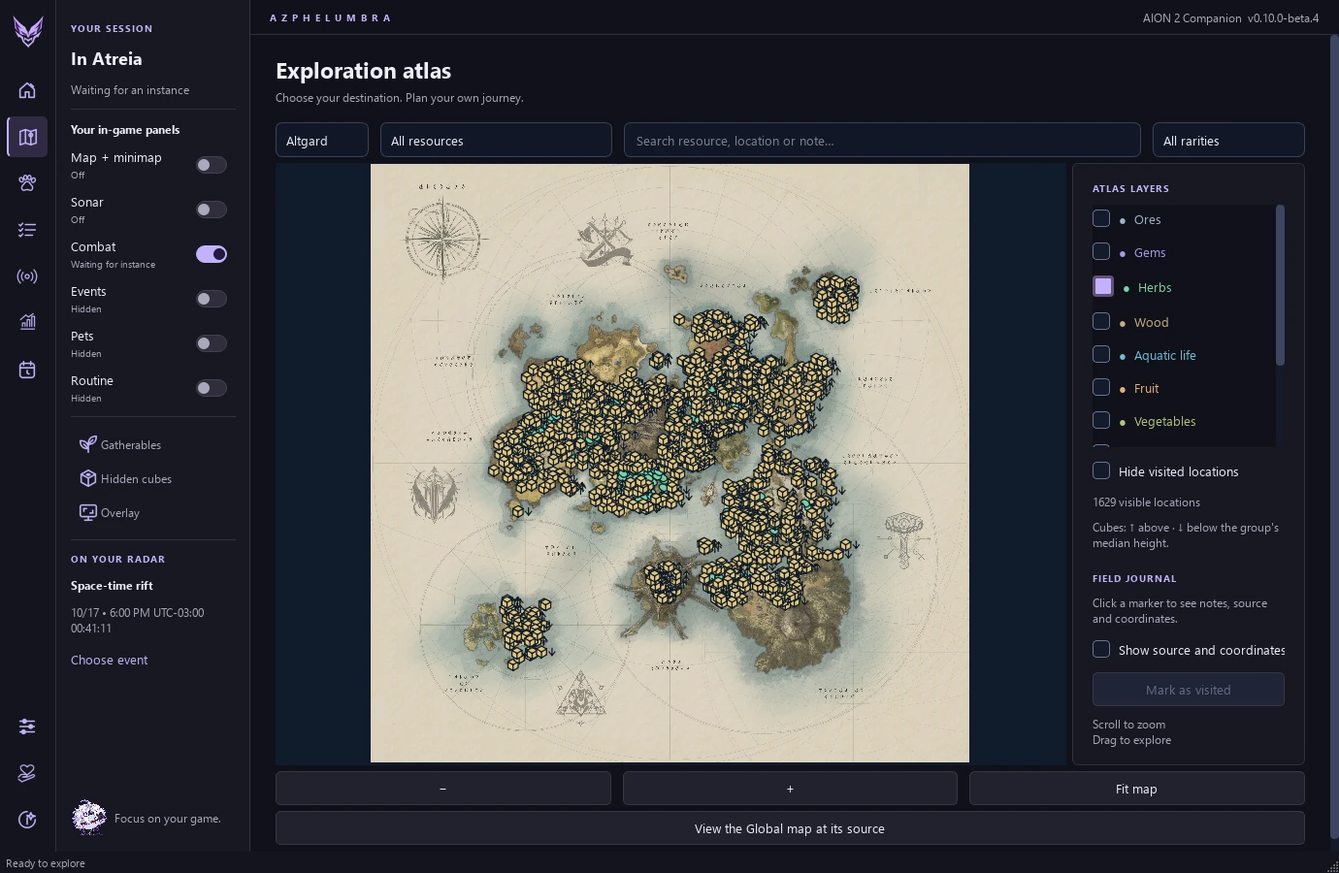
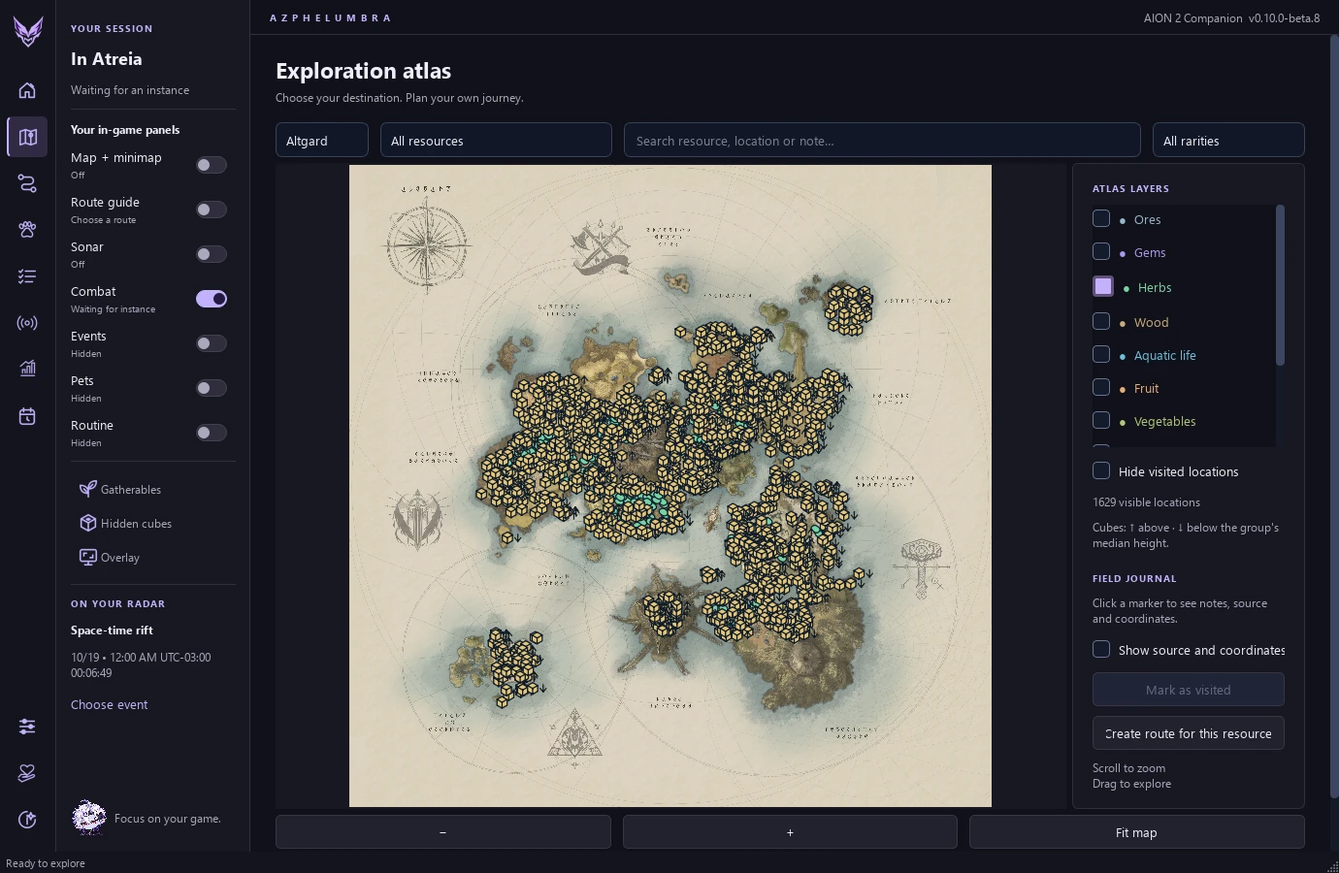
Publish beta.8 downloads and farming route guide

diff --git a/website/index.html b/website/index.html
@@ -30,10 +30,10 @@
   <main id="main">
     <section class="hero container">
       <div class="hero-copy">
-        <div class="eyebrow"><span class="live-dot"></span>AION 2 COMPANION <span class="version-pill">v0.10.0-beta.4</span></div>
+        <div class="eyebrow"><span class="live-dot"></span>AION 2 COMPANION <span class="version-pill">v0.10.0-beta.8</span></div>
         <h1 data-i18n="hero.title">Sua próxima<br>descoberta<br><em>começa aqui.</em></h1>
-        <p class="hero-description" data-i18n="hero.description">Mapas, coletas, cubos, pets, eventos e combate em um só lugar. Aether cuida do mapa. Você vive a aventura.</p>
-        <div class="hero-buttons"><a class="button primary" href="https://github.com/jpgalvao-architect/strigoi-aether-map/releases/download/v0.10.0-beta.4/StrigoiAetherMap-Setup-0.10.0-beta.4.exe"><svg viewBox="0 0 24 24" fill="none" stroke="currentColor" stroke-width="1.8" aria-hidden="true"><path d="M12 3v12m-5-5 5 5 5-5M4 16v5h16v-5"/></svg><span data-i18n="download.installer">Baixar instalador</span></a><a class="button secondary" href="#explore"><span data-i18n="hero.tour">Conhecer o app</span><span aria-hidden="true">↗</span></a><a class="button secondary" href="guide.html" data-i18n="start.guide">Abrir guia interativo</a></div>
+        <p class="hero-description" data-i18n="hero.description">Mapas, rotas de farm, cubos, pets, eventos e combate em um só lugar. Aether cuida do mapa. Você vive a aventura.</p>
+        <div class="hero-buttons"><a class="button primary" href="https://github.com/jpgalvao-architect/strigoi-aether-map/releases/download/v0.10.0-beta.8/StrigoiAetherMap-Setup-0.10.0-beta.8.exe"><svg viewBox="0 0 24 24" fill="none" stroke="currentColor" stroke-width="1.8" aria-hidden="true"><path d="M12 3v12m-5-5 5 5 5-5M4 16v5h16v-5"/></svg><span data-i18n="download.installer">Baixar instalador</span></a><a class="button secondary" href="#explore"><span data-i18n="hero.tour">Conhecer o app</span><span aria-hidden="true">↗</span></a><a class="button secondary" href="guide.html" data-i18n="start.guide">Abrir guia interativo</a></div>
         <p class="download-note"><svg viewBox="0 0 24 24" aria-hidden="true"><path fill="currentColor" d="m2 4 9-1v9H2zm11-1 9-1v10h-9zM2 14h9v9l-9-1zm11 0h9v10l-9-1z"/></svg><span data-i18n="hero.platform">Windows 10/11 · 64 bits · PT-BR / EN-US</span></p>
         <div class="hero-bottom"><span data-i18n="hero.free">Gratuito, com código aberto</span><span class="divider-dot">·</span><a href="https://github.com/jpgalvao-architect/strigoi-aether-map/blob/main/LICENSE" data-i18n="hero.license">Código GPLv3</a></div>
       </div>
@@ -49,13 +49,13 @@
     <div class="feature-ribbon"><div class="container ribbon-inner"><span><img src="assets/icons/atlas.svg" alt="" width="22" height="22"><span data-i18n="ribbon.maps">Mapas reais</span></span><span><img src="assets/icons/overlay.svg" alt="" width="22" height="22"><span data-i18n="ribbon.overlay">Overlay externo</span></span><span><img src="assets/icons/sonar.svg" alt="" width="22" height="22"><span data-i18n="ribbon.sonar">Acessibilidade auditiva</span></span><span><img src="assets/icons/moon.svg" alt="" width="22" height="22"><span data-i18n="ribbon.local">Seus registros, no seu PC</span></span></div></div>
     <section class="container explore-section" id="explore">
       <div class="section-heading"><div><p class="eyebrow" data-i18n="explore.eyebrow">MENOS ALT-TAB. MAIS EXPLORAÇÃO.</p><h2 data-i18n="explore.title">Um mapa que acompanha<br>a sua jornada.</h2></div><p data-i18n="explore.description">Escolha suas camadas, registre as visitas e deixe o Azphelumbra acompanhar o que importa para você.</p></div>
-      <div class="showcase-tabs" role="tablist" aria-label="Conheça as telas" data-i18n-aria="showcase.label"><button type="button" role="tab" id="tab-atlas" aria-selected="true" aria-controls="showcase-panel" tabindex="0" data-tab="atlas"><img src="assets/icons/atlas.svg" alt=""><span data-i18n="tab.atlas">Atlas</span></button><button type="button" role="tab" id="tab-overlay" aria-selected="false" aria-controls="showcase-panel" tabindex="-1" data-tab="overlay"><img src="assets/icons/overlay.svg" alt=""><span data-i18n="tab.overlay">Overlay</span></button><button type="button" role="tab" id="tab-events" aria-selected="false" aria-controls="showcase-panel" tabindex="-1" data-tab="events"><img src="assets/icons/events.svg" alt=""><span data-i18n="tab.events">Eventos</span></button><button type="button" role="tab" id="tab-sonar" aria-selected="false" aria-controls="showcase-panel" tabindex="-1" data-tab="sonar"><img src="assets/icons/sonar.svg" alt=""><span>Sonar</span></button><button type="button" role="tab" id="tab-combat" aria-selected="false" aria-controls="showcase-panel" tabindex="-1" data-tab="combat"><img src="assets/icons/combat.svg" alt=""><span data-i18n="tab.combat">Combate</span></button><button type="button" role="tab" id="tab-pets" aria-selected="false" aria-controls="showcase-panel" tabindex="-1" data-tab="pets"><img src="assets/icons/pets.svg" alt=""><span data-i18n="tab.pets">Pets</span></button><button type="button" role="tab" id="tab-routine" aria-selected="false" aria-controls="showcase-panel" tabindex="-1" data-tab="routine"><img src="assets/icons/routine.svg" alt=""><span data-i18n="tab.routine">Rotina</span></button></div>
-      <div class="showcase" id="showcase-panel" role="tabpanel" aria-labelledby="tab-atlas" tabindex="0"><div class="window-chrome"><span class="window-dots"><i></i><i></i><i></i></span><span>AZPHELUMBRA <span class="chrome-version">/ v0.10.0-beta.4</span></span><span class="window-indicator" data-i18n="showcase.actual">TELA REAL DO APP</span></div><img id="app-screenshot" src="assets/app-atlas-pt_BR.webp" alt="Atlas do aplicativo exibindo o mapa real de Altgard" data-i18n-alt="screen.atlas" width="2070" height="1350" loading="lazy"><div class="showcase-caption"><span id="showcase-number">01 / 07</span><div><h3 id="showcase-title" data-i18n="showcase.atlas.title">Seu atlas. Suas camadas.</h3><p id="showcase-description" data-i18n="showcase.atlas.description">Veja ervas e cubos juntos, filtre os recursos e marque os lugares que você já visitou.</p></div><img id="showcase-icon" src="assets/icons/atlas.svg" width="40" height="40" alt=""></div></div>
+      <div class="showcase-tabs" role="tablist" aria-label="Conheça as telas" data-i18n-aria="showcase.label"><button type="button" role="tab" id="tab-atlas" aria-selected="true" aria-controls="showcase-panel" tabindex="0" data-tab="atlas"><img src="assets/icons/atlas.svg" alt=""><span data-i18n="tab.atlas">Atlas</span></button><button type="button" role="tab" id="tab-routes" aria-selected="false" aria-controls="showcase-panel" tabindex="-1" data-tab="routes"><img src="assets/icons/routes.svg" alt=""><span data-i18n="tab.routes">Rotas</span></button><button type="button" role="tab" id="tab-overlay" aria-selected="false" aria-controls="showcase-panel" tabindex="-1" data-tab="overlay"><img src="assets/icons/overlay.svg" alt=""><span data-i18n="tab.overlay">Overlay</span></button><button type="button" role="tab" id="tab-events" aria-selected="false" aria-controls="showcase-panel" tabindex="-1" data-tab="events"><img src="assets/icons/events.svg" alt=""><span data-i18n="tab.events">Eventos</span></button><button type="button" role="tab" id="tab-sonar" aria-selected="false" aria-controls="showcase-panel" tabindex="-1" data-tab="sonar"><img src="assets/icons/sonar.svg" alt=""><span>Sonar</span></button><button type="button" role="tab" id="tab-combat" aria-selected="false" aria-controls="showcase-panel" tabindex="-1" data-tab="combat"><img src="assets/icons/combat.svg" alt=""><span data-i18n="tab.combat">Combate</span></button><button type="button" role="tab" id="tab-pets" aria-selected="false" aria-controls="showcase-panel" tabindex="-1" data-tab="pets"><img src="assets/icons/pets.svg" alt=""><span data-i18n="tab.pets">Pets</span></button><button type="button" role="tab" id="tab-routine" aria-selected="false" aria-controls="showcase-panel" tabindex="-1" data-tab="routine"><img src="assets/icons/routine.svg" alt=""><span data-i18n="tab.routine">Rotina</span></button></div>
+      <div class="showcase" id="showcase-panel" role="tabpanel" aria-labelledby="tab-atlas" tabindex="0"><div class="window-chrome"><span class="window-dots"><i></i><i></i><i></i></span><span>AZPHELUMBRA <span class="chrome-version">/ v0.10.0-beta.8</span></span><span class="window-indicator" data-i18n="showcase.actual">TELA REAL DO APP</span></div><img id="app-screenshot" src="assets/app-atlas-pt_BR.webp" alt="Atlas do aplicativo exibindo o mapa real de Altgard" data-i18n-alt="screen.atlas" width="2070" height="1350" loading="lazy"><div class="showcase-caption"><span id="showcase-number">01 / 08</span><div><h3 id="showcase-title" data-i18n="showcase.atlas.title">Seu atlas. Suas camadas.</h3><p id="showcase-description" data-i18n="showcase.atlas.description">Veja ervas e cubos juntos, filtre os recursos e marque os lugares que você já visitou.</p></div><img id="showcase-icon" src="assets/icons/atlas.svg" width="40" height="40" alt=""></div></div>
       <p class="source-note" data-i18n="explore.source">Imagens reais dos mapas e posições comunitárias com origem documentada. Os marcadores indicam locais possíveis, não spawns garantidos.</p>
     </section>
     <section class="sonar-section" id="sonar"><div class="container sonar-grid"><div class="sonar-visual" aria-hidden="true"><div class="sonar-ring ring-1"></div><div class="sonar-ring ring-2"></div><div class="sonar-ring ring-3"></div><img class="sonar-cube" src="assets/icons/cube.svg" alt="" width="88" height="88"><img class="sonar-alert" src="assets/sonar-alert-pt_BR.webp" data-alert-image alt="" width="350" height="181" loading="lazy"><span class="visual-caption" data-i18n="sonar.visual">UMA PISTA SONORA. UM AVISO VISUAL.</span></div><div class="sonar-copy"><p class="eyebrow" data-i18n="sonar.eyebrow">ACESSIBILIDADE AUDITIVA</p><h2 data-i18n="sonar.title">Uma pista que<br>você pode <em>ver.</em></h2><p data-i18n="sonar.description">O Sonar procura indícios do som do cubo e mostra um aviso com barra de intensidade e histórico recente. O volume do jogo influencia a leitura.</p><ul class="check-list"><li data-i18n="sonar.point1">Selecione o aplicativo do jogo e ative quando quiser.</li><li data-i18n="sonar.point2">Sem microfone, gravação ou envio do áudio.</li><li data-i18n="sonar.point3">O Sonar começa desligado a cada abertura.</li></ul><p class="accessibility-note" data-i18n="sonar.note">Desenvolvido como recurso de acessibilidade para pessoas surdas ou com deficiência auditiva. O aviso é uma pista: não confirma o cubo nem revela sua posição exata.</p></div></div></section>
     <section class="container start-section"><p class="eyebrow" data-i18n="start.eyebrow">DO DOWNLOAD À AVENTURA</p><h2 data-i18n="start.title">Pronto em poucos passos.</h2><div class="steps"><article><span class="step-number">01</span><h3 data-i18n="start.one.title">Instale e escolha o idioma</h3><p data-i18n="start.one.text">Baixe o instalador, leia os termos e escolha português ou inglês. Não precisa instalar Python.</p></article><article><span class="step-number">02</span><h3 data-i18n="start.two.title">Monte o seu mapa</h3><p data-i18n="start.two.text">Escolha as camadas do Atlas. A mesma seleção aparece no minimapa e no mapa grande.</p></article><article><span class="step-number">03</span><h3 data-i18n="start.three.title">Entre na aventura</h3><p data-i18n="start.three.text">Ative o overlay, selecione o terreno do minimapa uma vez e escolha o evento que quer acompanhar.</p></article></div><a class="button secondary guide-entry" href="guide.html" data-i18n="start.guide">Abrir guia interativo</a></section>
-    <section class="container download-section" id="download"><div class="download-box"><div><p class="eyebrow" data-i18n="download.eyebrow">SEU PEQUENO GUARDIÃO ESTÁ PRONTO</p><h2 data-i18n="download.title">Nos vemos em Atréia.</h2><p data-i18n="download.description">Escolha como quer usar o Azphelumbra. As duas versões têm os mesmos recursos e incluem o código-fonte.</p></div><div class="download-options"><a class="download-option recommended" href="https://github.com/jpgalvao-architect/strigoi-aether-map/releases/download/v0.10.0-beta.4/StrigoiAetherMap-Setup-0.10.0-beta.4.exe"><div class="option-heading"><span data-i18n="download.installer">Baixar instalador</span><span class="recommend-tag" data-i18n="download.recommended">Recomendado</span></div><p data-i18n="download.installer.detail">Atalhos, idioma inicial, desinstalação e assistente oficial do Npcap para Combate e Pets.</p><span class="option-meta">.EXE · 220.5 MB <span aria-hidden="true">↓</span></span></a><a class="download-option" href="https://github.com/jpgalvao-architect/strigoi-aether-map/releases/download/v0.10.0-beta.4/Azphelumbra-0.10.0-beta.4-windows-x64.zip"><div class="option-heading"><span data-i18n="download.portable">Baixar portátil</span><span aria-hidden="true">↗</span></div><p data-i18n="download.portable.detail">Extraia a pasta inteira e abra o app.</p><span class="option-meta">.ZIP · 259.3 MB <span aria-hidden="true">↓</span></span></a></div><p class="source-note" data-i18n="download.beta">Novo na beta.4: contador de pets com o personagem já logado, leitura de Insight e almas pela tela e ocultação dos overlays em mais menus. A Rotina reúne seus personagens e os saldos de Odyle, com Pulso compacto ou Faixa. Preferências preservadas; Combate e PvP continuam experimentais.</p><div class="download-links"><span>v0.10.0-beta.4 · Windows x64</span><a href="terms.html" data-i18n="download.terms">Ler os termos de uso</a><a href="https://github.com/jpgalvao-architect/strigoi-aether-map/releases/download/v0.10.0-beta.4/SHA256SUMS.txt" data-i18n="download.checksums">Verificar arquivos · SHA-256</a></div></div></section>
+    <section class="container download-section" id="download"><div class="download-box"><div><p class="eyebrow" data-i18n="download.eyebrow">SEU PEQUENO GUARDIÃO ESTÁ PRONTO</p><h2 data-i18n="download.title">Nos vemos em Atréia.</h2><p data-i18n="download.description">Escolha como quer usar o Azphelumbra. As duas versões têm os mesmos recursos e incluem o código-fonte.</p></div><div class="download-options"><a class="download-option recommended" href="https://github.com/jpgalvao-architect/strigoi-aether-map/releases/download/v0.10.0-beta.8/StrigoiAetherMap-Setup-0.10.0-beta.8.exe"><div class="option-heading"><span data-i18n="download.installer">Baixar instalador</span><span class="recommend-tag" data-i18n="download.recommended">Recomendado</span></div><p data-i18n="download.installer.detail">Atalhos, idioma inicial, desinstalação e assistente oficial do Npcap para Combate e Pets.</p><span class="option-meta">.EXE · 220.6 MB <span aria-hidden="true">↓</span></span></a><a class="download-option" href="https://github.com/jpgalvao-architect/strigoi-aether-map/releases/download/v0.10.0-beta.8/Azphelumbra-0.10.0-beta.8-windows-x64.zip"><div class="option-heading"><span data-i18n="download.portable">Baixar portátil</span><span aria-hidden="true">↗</span></div><p data-i18n="download.portable.detail">Extraia a pasta inteira e abra o app.</p><span class="option-meta">.ZIP · 259.4 MB <span aria-hidden="true">↓</span></span></a></div><p class="source-note" data-i18n="download.beta">Novo na beta.8: crie rotas de farm e acompanhe as paradas pelo centro do minimapa, sem calibrar a seta. A revalidação acompanha o terreno em movimento. A agenda inclui Battlefield, previsão do Gartua pelo contador e referências Global dos bosses do Abyss. Combate e PvP continuam experimentais.</p><div class="download-links"><span>v0.10.0-beta.8 · Windows x64</span><a href="terms.html" data-i18n="download.terms">Ler os termos de uso</a><a href="https://github.com/jpgalvao-architect/strigoi-aether-map/releases/download/v0.10.0-beta.8/SHA256SUMS.txt" data-i18n="download.checksums">Verificar arquivos · SHA-256</a></div></div></section>
     <section class="container faq-section"><div><p class="eyebrow" data-i18n="faq.eyebrow">SEM MISTÉRIO</p><h2 data-i18n="faq.title">Antes de partir.</h2></div><div class="faq-list"><details><summary data-i18n="faq.one.q">O aplicativo modifica o jogo?</summary><p data-i18n="faq.one.a">Não. Os marcadores e avisos são janelas externas de overlay. O app analisa a imagem da tela e recebe o áudio pelo Windows; não injeta código nas DLLs, não altera arquivos nem lê a memória do AION 2. O Combate lê passivamente a conexão do jogo usando Npcap. Os termos descrevem as condições de uso.</p></details><details><summary data-i18n="faq.two.q">Funciona no minimapa e no mapa grande?</summary><p data-i18n="faq.two.a">Sim, com minimapa retangular e norte fixo. Selecione só o terreno do minimapa, sem a barra de título. Ao abrir o mapa grande com M, o overlay muda automaticamente; ao fechar, volta ao minimapa.</p></details><details><summary data-i18n="faq.three.q">A agenda é para a América do Sul?</summary><p data-i18n="faq.three.a">Há perfis de agenda SA, com fontes documentadas e horários no fuso que você escolher. Os mapas e locais possíveis vêm de bases comunitárias compartilhadas; as posições não foram verificadas individualmente em SA. Você pode consultar as fontes no aplicativo.</p></details><details><summary data-i18n="faq.four.q">Posso usar sem abrir o jogo?</summary><p data-i18n="faq.four.a">O Atlas, as visitas e a agenda local funcionam offline. Para usar overlay e Sonar, abra o jogo e ative esses recursos. Suas preferências e registros ficam no seu computador.</p></details><details><summary data-i18n="faq.five.q">Como troco o idioma depois de instalar?</summary><p data-i18n="faq.five.a">Abra Configurações → Idioma do aplicativo. A troca entre português do Brasil e inglês dos EUA é imediata. Ela não altera seus filtros, visitas, região ou fuso horário.</p></details><details><summary data-i18n="faq.six.q">Onde estão as licenças e o código?</summary><p data-i18n="faq.six.a">O código próprio usa GPLv3 e está no GitHub e nos downloads. Mapas, dados comunitários e componentes de terceiros mantêm seus direitos e licenças, incluindo CC BY-NC 4.0 para mapas e dados comunitários.</p><a href="https://github.com/jpgalvao-architect/strigoi-aether-map/blob/main/THIRD_PARTY.md" data-i18n="faq.licenses">Consultar licenças e créditos →</a></details></div></section>
     <section class="container support-section" id="support"><div class="support-copy"><img src="assets/icons/donate.svg" width="38" height="38" alt=""><h2 data-i18n="support.title">Curtiu a companhia?</h2><p data-i18n="support.description">Se meu trabalho te ajudou e você quiser retribuir, pode deixar uma força por aqui. Sem pressão: usar o app, mandar feedback e compartilhar com a galera já ajuda demais.</p><a class="button secondary" href="https://link.mercadopago.com.br/thothworlds" target="_blank" rel="noopener noreferrer"><span data-i18n="support.creator">Apoiar o criador</span><span aria-hidden="true">↗</span></a><small data-i18n="support.recipient">Apoio pessoal ao criador · Mercado Pago</small></div><div class="community-support"><p class="eyebrow" data-i18n="support.community.eyebrow">APOIE TAMBÉM A COMUNIDADE SURDA</p><p data-i18n="support.community.description">Você também pode contribuir diretamente com instituições brasileiras que apoiam pessoas surdas.</p><a href="https://assjp.org.br/junte-nos/seja-apoiador/" target="_blank" rel="noopener noreferrer">ASSJP<span>São José dos Pinhais</span><span aria-hidden="true">↗</span></a><a href="https://www.ascontagem.org.br/" target="_blank" rel="noopener noreferrer">ASC<span>Contagem</span><span aria-hidden="true">↗</span></a><small data-i18n="support.community.note">Doações feitas nos canais oficiais das instituições. Destinatários diferentes do apoio ao criador.</small></div></section>
   </main>

diff --git a/website/guide-content.js b/website/guide-content.js
@@ -376,6 +376,123 @@ window.StrigoiGuide = {
       ]
     },
     {
+      "id": "routes",
+      "icon": "routes",
+      "title": {
+        "pt_BR": "Rotas de farm",
+        "en_US": "Farming routes"
+      },
+      "description": {
+        "pt_BR": "Escolha o que procurar e acompanhe suas próximas paradas.",
+        "en_US": "Choose what to find and follow your next stops."
+      },
+      "image": "routes",
+      "steps": [
+        {
+          "title": {
+            "pt_BR": "Escolha os alvos",
+            "en_US": "Choose your targets"
+          },
+          "where": {
+            "pt_BR": "Rotas → mapa e alvos",
+            "en_US": "Routes → map and targets"
+          },
+          "body": {
+            "pt_BR": "Abra Rotas ou use Criar rota no Atlas, nas Coletas ou em um pet. Escolha o mapa e os alvos, como Azpha, cubos ou almas de pets. Ajuste as paradas e escolha Circuito ou Só ida.",
+            "en_US": "Open Routes or choose Create route in the Atlas, Gatherables or a pet. Select the map and targets, such as Azpha, cubes or pet souls. Set the stops and choose Loop or One way."
+          },
+          "tip": {
+            "pt_BR": "Os locais vêm do Atlas; uma referência não garante que o recurso esteja disponível agora.",
+            "en_US": "Locations come from the Atlas; a reference does not guarantee current availability."
+          }
+        },
+        {
+          "title": {
+            "pt_BR": "Confira o percurso",
+            "en_US": "Check the journey"
+          },
+          "where": {
+            "pt_BR": "Rotas → prévia do mapa",
+            "en_US": "Routes → map preview"
+          },
+          "body": {
+            "pt_BR": "Use Marcar início para escolher a primeira parada. Confira a ordem e use Ajustar trajeto para inserir passagens. Linhas tracejadas são sugestões geométricas; confira muros, penhascos e desníveis no jogo.",
+            "en_US": "Use Choose starting stop to choose the first stop. Review the order and use Edit passages to add passages. Dashed lines are geometric suggestions; check walls, cliffs and elevation changes in game."
+          },
+          "tip": {
+            "pt_BR": "O módulo não conhece uma rede completa de estradas transitáveis e não move o personagem.",
+            "en_US": "The module has no complete walkable road network and never moves your character."
+          }
+        },
+        {
+          "title": {
+            "pt_BR": "Inicie pelo minimapa",
+            "en_US": "Start on the minimap"
+          },
+          "where": {
+            "pt_BR": "Rotas → Iniciar no minimapa",
+            "en_US": "Routes → Start on minimap"
+          },
+          "body": {
+            "pt_BR": "Inicie a rota e, se solicitado, selecione somente o terreno do minimapa, sem o título nem os controles. O app usa o centro fixo do minimapa para acompanhar o personagem; não precisa marcar a seta.",
+            "en_US": "Start the route and, if prompted, select only the minimap terrain, excluding its title and controls. The app follows the character from the fixed minimap center; no arrow setup is needed."
+          },
+          "tip": {
+            "pt_BR": "Use minimapa retangular com norte fixo. Se mudar resolução, escala ou monitor, selecione a área novamente.",
+            "en_US": "Use a rectangular north-fixed minimap. Reselect its area after changing resolution, scaling or monitor."
+          }
+        },
+        {
+          "title": {
+            "pt_BR": "Escolha Fio ou Guia",
+            "en_US": "Choose Strip or Guide"
+          },
+          "where": {
+            "pt_BR": "Guia da rota → opções ···",
+            "en_US": "Route panel → options ···"
+          },
+          "body": {
+            "pt_BR": "Pelo menu do painel, alterne entre Fio compacto e Guia com estado. Arraste para reposicionar e use Pausar, Pular parada ou Encerrar quando precisar. O menu rápido mostra ou oculta o painel.",
+            "en_US": "Use the panel menu to switch between compact Strip and Guide with status. Drag to reposition, and use Pause, Skip stop or End when needed. Quick controls show or hide the panel."
+          },
+          "tip": {
+            "pt_BR": "Chegar a uma parada exige leituras atuais por cerca de 0,35 segundo; visitar não confirma coleta.",
+            "en_US": "Reaching a stop needs fresh readings for about 0.35 seconds; visiting does not confirm collection."
+          }
+        },
+        {
+          "title": {
+            "pt_BR": "Salve e retome com segurança",
+            "en_US": "Save and resume"
+          },
+          "where": {
+            "pt_BR": "Rotas → Salvar / Minhas rotas",
+            "en_US": "Routes → Save / My routes"
+          },
+          "body": {
+            "pt_BR": "Salve os percursos que quiser reutilizar. Minhas rotas permite carregar, importar e exportar. Menus, Alt+Tab ou perda do mapa interrompem a posição; o mapa grande exibe o trajeto, mas suspende o acompanhamento do personagem.",
+            "en_US": "Save journeys to reuse them. My routes lets you load, import and export. Menus, Alt+Tab or map loss interrupt positioning; the full map displays the path but suspends character tracking."
+          },
+          "tip": {
+            "pt_BR": "Ao reabrir o app, carregue e inicie a rota: o percurso ativo não é retomado automaticamente.",
+            "en_US": "After reopening the app, load and start your route: active journeys do not resume automatically."
+          }
+        }
+      ],
+      "help": [
+        {
+          "question": {
+            "pt_BR": "O guia fica em Aguardando minimapa. E agora?",
+            "en_US": "The guide says Waiting for minimap. What now?"
+          },
+          "answer": {
+            "pt_BR": "Use a beta.8 ou posterior, confira a seleção do terreno e volte ao jogo em primeiro plano, sem menus. A beta.8 corrige a revalidação durante movimento. Se persistir, informe versão e estado do overlay com uma print.",
+            "en_US": "Use beta.8 or later, check the terrain selection and return to the foreground game without menus. Beta.8 fixes revalidation during movement. If it persists, report version and overlay status with a screenshot."
+          }
+        }
+      ]
+    },
+    {
       "id": "maps",
       "icon": "overlay",
       "title": {
@@ -785,6 +902,24 @@ window.StrigoiGuide = {
           "tip": {
             "pt_BR": "Volte a Automático para acompanhar eventos diferentes. Mantenha o Azphelumbra aberto para atualizar a contagem.",
             "en_US": "Return to Automatic to follow different events. Keep Azphelumbra open to update the countdown."
+          }
+        },
+        {
+          "title": {
+            "pt_BR": "Acompanhe Battlefield e bosses",
+            "en_US": "Track Battlefield and bosses"
+          },
+          "where": {
+            "pt_BR": "Eventos → agenda e contador do Gartua",
+            "en_US": "Events → schedule and Gartua countdown"
+          },
+          "body": {
+            "pt_BR": "Battlefield abre diariamente das 11h às 14h e das 19h às 21h no relógio SA. Para Gartua, habilite a leitura e deixe nome e Time Left visíveis no alto da tela; duas leituras compatíveis criam uma previsão para esta sessão.",
+            "en_US": "Battlefield opens daily from 11:00 to 14:00 and 19:00 to 21:00 on the SA clock. For Gartua, enable reading and keep its name and Time Left visible near the top of the screen; two matching readings create a prediction for this session."
+          },
+          "tip": {
+            "pt_BR": "Gartua não recebe horário diário presumido. Bosses do Abyss estão identificados como referência Global, ainda sem confirmação individual em SA.",
+            "en_US": "No daily Gartua schedule is assumed. Abyss bosses are labeled Global references, not individually confirmed on SA."
           }
         }
       ],

diff --git a/website/site.js b/website/site.js
@@ -15,6 +15,10 @@
     'showcase.overlay.description': 'As camadas acompanham os dois mapas. Os painéis se ocultam ao sair do jogo ou abrir menus reconhecidos; no mapa grande, os marcadores permanecem.',
     'showcase.events.title': 'Um olho na aventura. Outro no relógio.',
     'showcase.events.description': 'Escolha o evento do painel flutuante. Recolha para acompanhar o próximo horário ou expanda para ver o dia.',
+    "tab.routes": "Rotas",
+    "screen.routes": "Prévia de rota de farm com paradas e opções de percurso",
+    "showcase.routes.title": "Escolha o alvo. Trace sua jornada.",
+    "showcase.routes.description": "Crie circuitos ou trajetos de ida, ajuste passagens e acompanhe as paradas no minimapa com o guia Fio ou Guia. Linhas sugeridas precisam ser conferidas.",
     'tab.routine': 'Rotina',
     'screen.routine': 'Panorama de personagens e saldos de Energia de Odyle',
     'showcase.routine.title': 'Seus personagens. Sua próxima jornada.',
@@ -27,7 +31,7 @@
     'screen.combat': 'Módulo Combate com dano observado, DPS e participação do grupo',
     'showcase.combat.title': 'Seu grupo. Seu dano observado.',
     'showcase.combat.description': 'A medição aguarda o jogo e o painel aparece nas instâncias reconhecidas. Ao sair, ele se oculta; a leitura continua. O menu rápido permite desativar a exibição, e o histórico fica preservado.',
-    'download.beta': 'Novo na beta.4: contador de pets com o personagem já logado, leitura de Insight e almas pela tela e ocultação dos overlays em mais menus. A Rotina reúne seus personagens e os saldos de Odyle, com Pulso compacto ou Faixa. Preferências preservadas; Combate e PvP continuam experimentais.',
+    'download.beta': "Novo na beta.8: crie rotas de farm e acompanhe as paradas pelo centro do minimapa, sem calibrar a seta. A revalidação acompanha o terreno em movimento. A agenda inclui Battlefield, previsão do Gartua pelo contador e referências Global dos bosses do Abyss. Combate e PvP continuam experimentais.",
     'showcase.sonar.title': 'O som vira uma pista na tela.',
     'showcase.sonar.description': 'Ative o Sonar e acompanhe a intensidade estimada do som reconhecido no medidor do aviso.',
   });
@@ -36,7 +40,7 @@
     'page.title': 'Azphelumbra — your next discovery', 'legal.page.title': 'Terms of use — Azphelumbra',
     'nav.explore': 'Explore', 'nav.sonar': 'Sonar', 'nav.download': 'Downloads',
     'hero.title': 'Your next<br>discovery<br><em>starts here.</em>',
-    'hero.description': 'Maps, gatherables, cubes, pets, events and combat in one place. Aether minds the map. You live the adventure.',
+    'hero.description': 'Maps, farming routes, cubes, pets, events and combat in one place. Aether minds the map. You live the adventure.',
     'hero.tour': 'Meet the app', 'hero.platform': 'Windows 10/11 · 64-bit · PT-BR / EN-US',
     'hero.free': 'Free, with open-source code', 'hero.license': 'GPLv3 code',
     'hero.cube': 'Your next clue is nearby.', 'hero.map': 'Your exploration journal',
@@ -58,6 +62,10 @@
     'showcase.overlay.description': 'Layers follow both maps. Panels hide outside the game window and in recognized menus; full-map markers remain available.',
     'showcase.events.title': 'Adventure in sight. Time on your side.',
     'showcase.events.description': 'Choose the floating panel event. Collapse it to track the next occurrence or expand it to see the day.',
+    "tab.routes": "Routes",
+    "screen.routes": "Farming route preview with stops and journey controls",
+    "showcase.routes.title": "Choose your target. Plan your journey.",
+    "showcase.routes.description": "Build circuits or one-way routes, edit passages and follow minimap stops with Strip or Guide. Suggested paths need in-game checking.",
     'tab.routine': 'Routine',
     'screen.routine': 'Character overview and Odyle Energy balances',
     'showcase.routine.title': 'Your characters. Your next journey.',
@@ -70,7 +78,7 @@
     'screen.combat': 'Combat module with observed damage, DPS and group share',
     'showcase.combat.title': 'Your group. Your observed damage.',
     'showcase.combat.description': 'Capture waits for the game and the panel appears in recognized instances. On exit it hides while capture continues. Quick controls can disable panel display, and history is preserved.',
-    'download.beta': 'New in beta.4: pet pickup counting while already logged in, on-screen Insight and soul readings, and overlay hiding in more menus. Routine combines character records and Odyle balances, with Compact Pulse or Strip. Preferences are preserved; Combat and PvP remain experimental.',
+    'download.beta': "New in beta.8: build farming routes and follow stops from the minimap center, without arrow setup. Revalidation follows moving terrain. The schedule adds Battlefield, Gartua predictions from its countdown, and Global reference times for Abyss bosses. Combat and PvP remain experimental.",
     'showcase.sonar.title': 'Sound becomes a clue on screen.',
     'showcase.sonar.description': 'Enable Sonar and follow recognized sound intensity in the alert meter. The Sonar page also shows recent history.',
     'explore.source': 'Real map images and community locations with documented sources. Markers indicate possible locations, not guaranteed spawns.',

diff --git a/website/guide.html b/website/guide.html
@@ -1,5 +1,5 @@
 <!doctype html>
-<html lang="pt-BR"><head><meta charset="utf-8"><meta name="viewport" content="width=device-width, initial-scale=1"><meta name="theme-color" content="#0b0e18"><meta name="description" content="Guia interativo do Azphelumbra: instalação, menu rápido, mapas, Sonar, combate, eventos, pets e Rotina, com passos e telas reais do aplicativo."><link rel="canonical" href="https://jpgalvao-architect.github.io/strigoi-aether-map/guide.html"><link rel="icon" href="assets/favicon.ico"><link rel="stylesheet" href="styles.css"><link rel="stylesheet" href="guide.css"><script src="guide-content.js" defer></script><script src="site.js" defer></script><script src="guide.js" defer></script><title>Guia interativo — Azphelumbra</title></head>
+<html lang="pt-BR"><head><meta charset="utf-8"><meta name="viewport" content="width=device-width, initial-scale=1"><meta name="theme-color" content="#0b0e18"><meta name="description" content="Guia interativo do Azphelumbra: instalação, menu rápido, mapas, Sonar, combate, eventos, rotas de farm, pets e Rotina, com passos e telas reais do aplicativo."><link rel="canonical" href="https://jpgalvao-architect.github.io/strigoi-aether-map/guide.html"><link rel="icon" href="assets/favicon.ico"><link rel="stylesheet" href="styles.css"><link rel="stylesheet" href="guide.css"><script src="guide-content.js" defer></script><script src="site.js" defer></script><script src="guide.js" defer></script><title>Guia interativo — Azphelumbra</title></head>
 <body data-page="guide"><a class="skip-link" href="#main" data-i18n="skip">Ir para o conteúdo</a>
   <header class="site-header">
     <div class="container nav-row">
@@ -14,7 +14,7 @@
     <div class="guide-heading"><div><a class="legal-back" href="index.html" data-i18n="guide.back">← Voltar ao site</a><p class="eyebrow" data-i18n="guide.eyebrow">SEU GUIA DE EXPLORAÇÃO</p><h1 data-i18n="guide.title">Vamos configurar<br><em>sua aventura.</em></h1><p data-i18n="guide.intro">Escolha um módulo e siga uma etapa por vez. Marque o que já fez; seu progresso fica neste navegador.</p></div><img src="assets/aether-avatar.webp" width="140" height="140" alt="" class="guide-avatar"></div>
     <noscript><p>Este passo a passo precisa de JavaScript. Consulte também as instruções em <a href="https://github.com/jpgalvao-architect/strigoi-aether-map/blob/main/README.md">Português</a> ou <a href="https://github.com/jpgalvao-architect/strigoi-aether-map/blob/main/README.en-US.md">English</a>.</p></noscript>
     <div class="guide-layout" id="guide-layout" hidden>
-      <aside class="guide-sidebar"><h2 data-i18n="guide.topics">Escolha um módulo</h2><nav id="guide-topics" aria-label="Escolha um módulo" data-i18n-aria="guide.topics"></nav><div class="guide-progress"><h3 data-i18n="guide.progress">Seu progresso</h3><progress id="guide-progress" value="0" max="32" aria-label="Seu progresso" data-i18n-aria="guide.progress"></progress><p id="guide-progress-text"></p><button id="guide-reset" type="button" data-i18n="guide.reset">Recomeçar guia</button></div></aside>
+      <aside class="guide-sidebar"><h2 data-i18n="guide.topics">Escolha um módulo</h2><nav id="guide-topics" aria-label="Escolha um módulo" data-i18n-aria="guide.topics"></nav><div class="guide-progress"><h3 data-i18n="guide.progress">Seu progresso</h3><progress id="guide-progress" value="0" max="38" aria-label="Seu progresso" data-i18n-aria="guide.progress"></progress><p id="guide-progress-text"></p><button id="guide-reset" type="button" data-i18n="guide.reset">Recomeçar guia</button></div></aside>
       <section class="guide-card" aria-labelledby="guide-topic-title"><div class="guide-topic-heading"><p id="guide-counter" class="eyebrow"></p><h2 id="guide-topic-title"></h2><p id="guide-description"></p></div><ol id="guide-steps" aria-label="Etapas" data-i18n-aria="guide.steps"></ol>
         <fieldset id="guide-edition" hidden><legend data-i18n="guide.edition">Qual edição você usa?</legend><label><input type="radio" name="edition" value="installer" checked><span data-i18n="guide.installer">Instalador</span></label><label><input type="radio" name="edition" value="portable"><span data-i18n="guide.portable">Portátil</span></label></fieldset>
         <div class="guide-step-body"><div><p id="guide-where" class="guide-location"></p><h3 id="guide-step-title" tabindex="-1"></h3><p id="guide-body"></p><a id="guide-action" class="button secondary" hidden></a><div class="guide-tip"><strong data-i18n="guide.tip">Dica do Aether</strong><p id="guide-tip"></p></div></div><figure class="guide-screen"><button type="button" id="guide-zoom"><img id="guide-image" src="assets/app-home-pt_BR.webp" alt="" width="1380" height="900"><span data-i18n="guide.zoom">Ampliar tela</span></button><figcaption data-i18n="guide.screen">Tela real do aplicativo</figcaption></figure></div>
